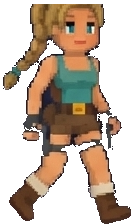
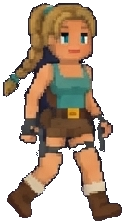
Fix Act 1 scroll deadlock, Pat'a sprite crop artifacts, and Act 3 reunion staging
- Act 1: release the scroll freeze after the hat-loss/hat-arrival animation
  finishes instead of only on chest click -- previously the chest could sit
  scrolled out of reach with scrolling capped at the freeze point, a hard
  deadlock.
- Act 1: once the wind takes/delivers the fedora, the character now plants at
  a fixed 2/3-across stop point and settles into an idle loop instead of
  continuing to track scroll position -- scrolling further (or back up) no
  longer moves them.
- Pat'a's idle/gundraw/fire sprite frames had their hair flatly cropped at
  the top: the bounding-box mask and the transparency flood fill used
  different color-distance thresholds, so anti-aliased hair-edge pixels
  counted as foreground for cropping but background for transparency and got
  erased. Aligned both thresholds.
- A second, separate bug let stray row-label glyphs survive inside frames
  whose crop box legitimately extended into the label's row (walk_1,
  idle_2): excluding the label from the bounding-box math only changed where
  the box was drawn, not what stray pixels ended up inside it. Now erases
  the label glyphs directly from the final cropped image.
- Act 3: the reunion pair now walk in to 6% apart instead of 12%, and the
  heart gets a continuous beat animation (on a separate inner wrapper so it
  doesn't fight the existing pop-in transform transition).

diff --git a/index.html b/index.html
@@ -258,14 +258,21 @@
   #spriteMeetAbhi{ transform:translateX(-50%) scaleX(-1); }
   #spriteMeetPaty{left:14%;}
   #spriteMeetAbhi{left:86%;}
-  .meet-stage.met #spriteMeetPaty{left:44%;}
-  .meet-stage.met #spriteMeetAbhi{left:56%;}
+  .meet-stage.met #spriteMeetPaty{left:47%;}
+  .meet-stage.met #spriteMeetAbhi{left:53%;}
   #spriteMeetPaty .walker-body{height:153px;} /* ~90% of the standard 170px — Pat'a reads 10% smaller than Abhi in this scene */
   .meet-heart{
     position:absolute; top:0; left:50%; transform:translate(-50%,20px) scale(0);
     width:40px; height:36px; transition:transform 0.6s steps(5) 1.4s;
   }
   .meet-stage.met .meet-heart{transform:translate(-50%,0) scale(1);}
+  /* the beat lives on an INNER wrapper, not .meet-heart itself — .meet-heart's own
+     transform is driven by the pop-in transition above; a transform animation on
+     the same element would fully replace it rather than compose (see bug #4 in
+     PROJECT_DOCUMENTATION.md), so the continuous beat has to be a separate element. */
+  .meet-heart-beat{width:100%; height:100%;}
+  .meet-stage.met .meet-heart-beat{animation:heartBeat 0.9s ease-in-out 2s infinite;}
+  @keyframes heartBeat{0%,100%{transform:scale(1);} 30%{transform:scale(1.22);} 55%{transform:scale(1);}}
 
   /* ============ THE TRANSFORMATION: pixel dissolve ============ */
   .transform-band{
@@ -656,7 +663,7 @@
     <p class="scene-label px-reveal" id="act3Label" data-gate="scroll1">~ PRAGUE &middot; SEPTEMBER 2023 ~</p>
     <div class="dialog px-reveal" id="act3Dialog1" data-gate="scroll1"></div>
     <div class="meet-stage" id="meetStage">
-      <div class="meet-heart"><svg class="px" viewBox="0 0 40 36" width="100%" height="100%"><use href="#px-heart"/></svg></div>
+      <div class="meet-heart"><div class="meet-heart-beat"><svg class="px" viewBox="0 0 40 36" width="100%" height="100%"><use href="#px-heart"/></svg></div></div>
       <div class="sprite-walker" id="spriteMeetPaty"><img class="walker-body" src="assets/paty/idle_1.png" alt="Pat'a Croft"></div>
       <div class="sprite-walker mirrored" id="spriteMeetAbhi"><img class="walker-body" src="assets/abhi_nohat/idle_1.png" alt="Abhi Jones"></div>
     </div>
@@ -1040,6 +1047,7 @@
     + '</g>';
   var hatFlown = false, hatArrived = false, hatTaken = false;
   var scrollFreezeY = null; // set the instant the hat-loss/hat-arrival moment triggers; cleared when its chest is opened
+  var STOP_LEFT_PCT = 66; // where Act 1's walking character plants for good after the wind moment — 2/3 across the stage
 
   // ============ SPRITE ART (replaces the old hand-coded SVG rigs) ============
   var PATY_SPRITES = { idle: ['assets/paty/idle_1.png','assets/paty/idle_2.png'],
@@ -1091,6 +1099,7 @@
     var walker = document.getElementById('act1Sprite');
     clearInterval(act1WalkTimer);
     walker.innerHTML = '<img class="walker-body" alt="">';
+    walker.style.left = ''; // clear any stop-point position frozen in by a previous run of this quest
     if(side === 'groom'){
       act1WalkTimer = startSpriteLoop(walker.querySelector('.walker-body'), ABHI_SPRITES.walk, 160);
     } else {
@@ -1347,14 +1356,20 @@
       if(act1 && sprite && document.getElementById('pixelWorld').classList.contains('active')){
         var r = act1.getBoundingClientRect();
         var progress = Math.min(Math.max(-r.top / (r.height - window.innerHeight || 1), 0), 1);
-        // Pat'a stops short of where the hat lands (66%) instead of walking through it;
-        // Abhi's own range is unaffected since his hat leaves from his own position.
-        var walkSpan = chosenSide === 'bride' ? 36 : 62;
-        sprite.style.left = (8 + progress * walkSpan) + '%';
+        // Once the wind takes/delivers the fedora, the character plants at the
+        // 2/3-across stop point for good; hatFlown/hatArrived double as a
+        // "stopped walking" flag from here on, so neither scrolling further nor
+        // scrolling back up ever repositions them again this quest.
+        var stopped = chosenSide === 'groom' ? hatFlown : hatArrived;
+        if(!stopped){
+          var walkSpan = chosenSide === 'bride' ? 36 : 62;
+          sprite.style.left = (8 + progress * walkSpan) + '%';
+        }
         // fedora wind choreography
         if(chosenSide === 'groom'){
           if(progress > 0.33 && !hatFlown){
             hatFlown = true;
+            sprite.style.left = STOP_LEFT_PCT + '%'; // stop point -- same spot Pat'a's hat lands at
             scrollFreezeY = window.scrollY; // don't let scrolling outrun the hat-loss moment
             spawnWind();
             sndLost();
@@ -1368,17 +1383,28 @@
             sprite.classList.add('hat-flying');
             // dialogue about the hat only starts once the hatFly animation (1.25s) has played out
             setTimeout(function(){
+              scrollFreezeY = null; // animation done — let scrolling continue on down to the chest
               revealPxElement(document.getElementById('act1Dialog2'));
+              // he's done moving for this scene — settle into an idle loop, hatless
+              clearInterval(act1WalkTimer);
+              var idleImg = sprite.querySelector('.walker-body');
+              if(idleImg){ act1WalkTimer = startSpriteLoop(idleImg, ABHI_NOHAT_SPRITES.idle, 550); }
             }, 1250);
           }
         } else if(chosenSide === 'bride'){
           if(progress > 0.3 && !hatArrived){
             hatArrived = true;
+            sprite.style.left = STOP_LEFT_PCT + '%'; // stop right next to where the hat lands
             scrollFreezeY = window.scrollY; // don't let scrolling outrun the hat-arrival moment
             spawnWind(true);
             // dialogue about the hat only starts once the hatDrift animation (1.8s) has played out
             setTimeout(function(){
+              scrollFreezeY = null; // animation done — let scrolling continue on down to the chest
               revealPxElement(document.getElementById('act1Dialog2'));
+              // she's done moving for this scene — settle into an idle loop
+              clearInterval(act1WalkTimer);
+              var idleImg = sprite.querySelector('.walker-body');
+              if(idleImg){ act1WalkTimer = startSpriteLoop(idleImg, PATY_SPRITES.idle, 550); }
             }, 1800);
             document.getElementById('stageHat').classList.add('hat-arriving');
           }
